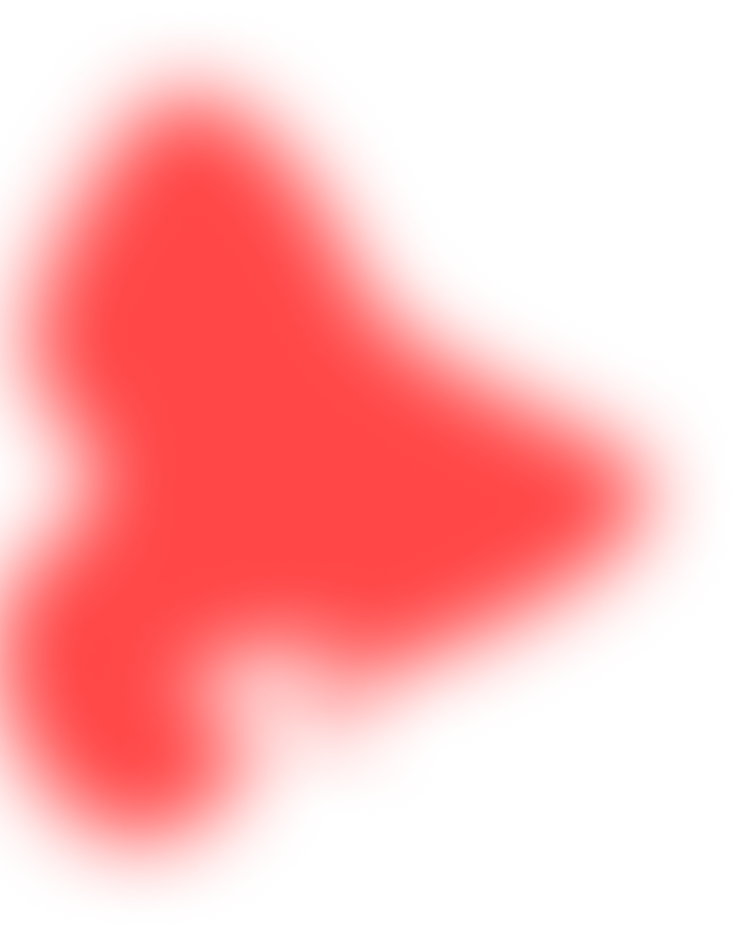
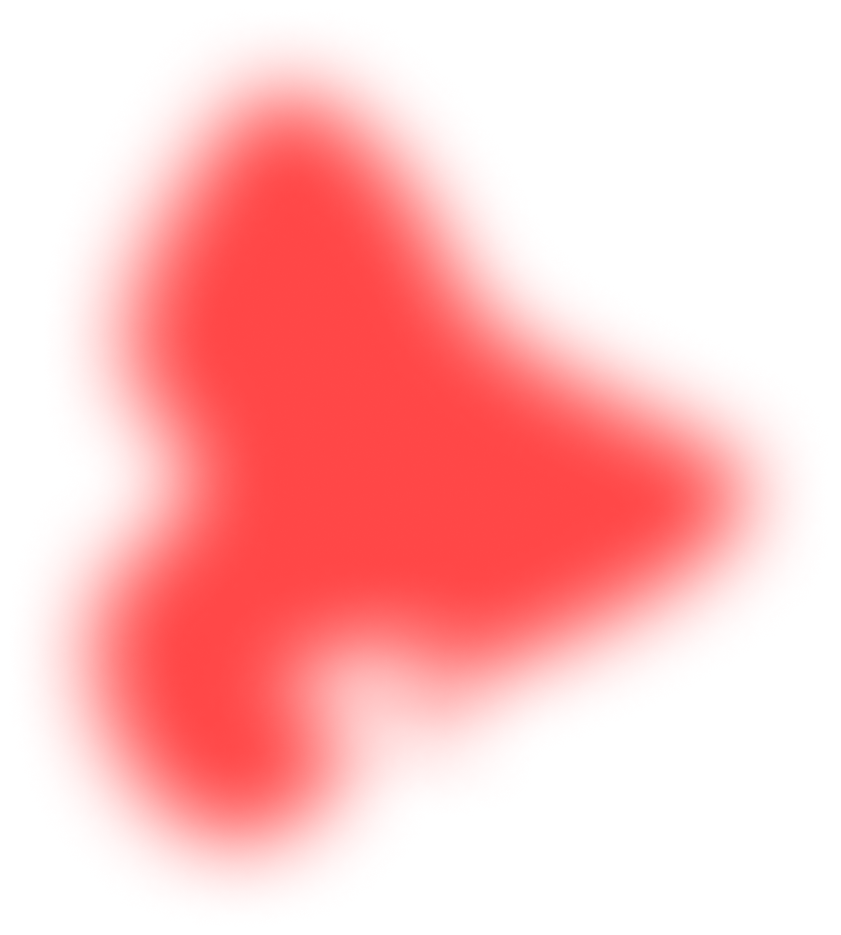
responsiveness

Changed region(s): [[0.0, 0.062, 0.712, 0.9305], [0.2167, 0.6513, 0.4643, 0.9305], [0.5572, 0.6513, 0.681, 0.7444]]

diff --git a/src/app/content-page/content-page.component.scss b/src/app/content-page/content-page.component.scss
@@ -37,31 +37,11 @@
 }
 
 
-.shade-portrait {
-    position: absolute;
-    right: 0px;
-    top: 1150px;
-    z-index: 15;
-}
 
-.shade-skills {
-    position: absolute;
-    left: 0px;
-    top: 3000px;
 
-}
 
-.shade-portfolio {
-    position: absolute;
-    left: 0px;
-    top: 3900px;
-}
 
-.shade-footer {
-    position: absolute;
-    left: -100px;
-    top: 5480px;
-}
+
 
 
 //<-------------------------------------------------- media queries ----------------------------------------------->
@@ -83,36 +63,11 @@
         margin: 0 16px;
     }
 
-    .shade-portrait {
-        position: absolute;
-        right: 0px;
-        top: 800px;
-        z-index: 6;
-        object-fit: contain;
-        width: 40%;
-    }
+
     
-    .shade-skills {
-        position: absolute;
-        left: 0px;
-        top: 3000px;
-        object-fit: contain;
-        width: 40%;   
-    }
+
     
-    .shade-portfolio {
-        position: absolute;
-        left: 0;
-        top: 4100px;
-        object-fit: contain;
-        width: 90%;
-    }
+
     
-    .shade-footer {
-        position: absolute;
-        left: -100px;
-        top: 5480px;
-        object-fit: contain;
-        width: 63%;
-    }
+
 }

diff --git a/src/app/about-me/about-me.component.scss b/src/app/about-me/about-me.component.scss
@@ -18,6 +18,13 @@
     z-index: -1;
 }
 
+.shade-portrait {
+    position: absolute;
+    right: 0px;
+    top: -500px;
+    z-index: 15;
+}
+
 
 .portrait {
     position: absolute;
@@ -29,7 +36,6 @@
 @media (max-width: 850px) {
 
     .about-me-content {
-        margin-top: 0px;
         position: static;
         flex-direction: column;
 
@@ -41,7 +47,27 @@
         z-index: 3;
     }
 
+    .shade-portrait {
+        position: absolute;
+        right: 0px;
+        top: 800px;
+        z-index: 6;
+        object-fit: contain;
+        width: 30%;
+    }
+
     .portrait{
         display: none;
+    }
+}
+
+@media (max-width: 850px) and (min-height: 850px) {
+    .contrast-arc-blue {
+        margin-top: -118px;
+    }
+
+    .shade-portrait {
+        width: 30%;
+        top: 1000px;
     }
 }

diff --git a/src/app/footer/footer.component.scss b/src/app/footer/footer.component.scss
@@ -9,6 +9,13 @@
     justify-content: center;
 }
 
+.shade-footer {
+    position: absolute;
+    top: -685px;
+    left: -16px;
+    transform: scale(0.95);
+}
+
 .footer-container {
     display: flex;
     align-items: center;
@@ -62,6 +69,15 @@
         right: 0;
     }
 
+    .shade-footer {
+        position: absolute;
+        object-fit: contain;
+        transform: none;
+        top: -142px;
+        left: 0;
+        width: 30%;
+    }
+
     .footer-container {
         flex-direction: column;
         justify-content: center;
@@ -78,5 +94,11 @@
         left: 0;
         right: 0;
         text-align: center;
+    }
+}
+
+@media (max-width: 850px) and (min-height: 850px){
+    .shade-footer {
+        top: -295px;
     }
 }

diff --git a/src/app/portfolio/portfolio.component.scss b/src/app/portfolio/portfolio.component.scss
@@ -44,6 +44,13 @@
 
 }
 
+.shade-portfolio {
+    position: absolute;
+    right: 0;
+    top: 600px;
+    z-index: -1;
+}
+
 
 //<--------------------------------------------- media queries ----------------------------------------->
 
@@ -87,5 +94,20 @@
         &:nth-child(even){
             flex-direction: column;
         }
+    }
+
+    .shade-portfolio {
+        position: absolute;
+        top: 950px;
+        object-fit: contain;
+        width: 110%;
+        z-index: -1;
+    }
+}
+
+@media (max-width: 850px) and (min-height: 850px){
+    .shade-portfolio {
+        top: 1150px;
+        width: 90%;
     }
 }

diff --git a/src/app/my-skills/my-skills.component.scss b/src/app/my-skills/my-skills.component.scss
@@ -52,6 +52,12 @@
     z-index: 6;
 }
 
+.shade-skills {
+    position: absolute;
+    left: -16px;
+    top: 100px;
+}
+
 //<------------------------------------------- media queries ---------------------------------------->
 
 @media (max-width: 850px){
@@ -87,5 +93,20 @@
 
     .contact-btn-myskills {
         position: static;
+    }
+
+    .shade-skills {
+        position: absolute;
+        left: -16px;
+        top: 600px;
+        object-fit: contain;
+        width: 40%;
+        z-index: -1;   
+    }
+}
+
+@media (max-width: 850px) and (min-height: 850px){
+    .shade-skills {
+        top: 500px;
     }
 }

diff --git a/src/app/content-page/content-page.component.html b/src/app/content-page/content-page.component.html
@@ -1,9 +1,9 @@
 <div class="content">
 
-    <img class="shade-portrait" src="assets/img/background-design-elements/background-portrait.png">
-    <img class="shade-skills" src="assets/img/background-design-elements/background-skills.png">
-    <img class="shade-portfolio" src="assets/img/background-design-elements/background-portfolio.png">
-    <img class="shade-footer" src="assets/img/background-design-elements/background-footer.png">
+
+
+
+
 
 
     <app-header class="header"></app-header>

diff --git a/src/app/about-me/about-me.component.html b/src/app/about-me/about-me.component.html
@@ -1,6 +1,7 @@
 
 <div class="about-me-content">
     <img class="contrast-arc-blue" src="assets/img/background-design-elements/contrast-arc-blue.png" alt="">
+    <img class="shade-portrait" src="assets/img/background-design-elements/background-portrait.png">
     <app-about-me-info ></app-about-me-info>
     <app-portrait class="portrait"></app-portrait>
 </div>

diff --git a/src/app/contact/contact.component.scss b/src/app/contact/contact.component.scss
@@ -130,6 +130,7 @@ textarea {
         position: static;
         flex-direction: column;
         margin-top: 100px;
+        margin-bottom: 100px;
     }
 
     .header-and-text {
@@ -170,5 +171,6 @@ textarea {
     .checkbox-privacy-flex {
         width: 100vw;
         max-width: 100%;
+        justify-content: center;
     }
   }

diff --git a/src/app/portfolio/portfolio.component.html b/src/app/portfolio/portfolio.component.html
@@ -9,5 +9,6 @@
         <div class="projects">
             <app-project *ngFor="let project of projects; let i = index" [projectInfo]="project" class="project-container"></app-project>
         </div>
+        <img class="shade-portfolio" src="assets/img/background-design-elements/background-portfolio.png">
     </div>
 </div>

diff --git a/src/app/my-skills/my-skills.component.html b/src/app/my-skills/my-skills.component.html
@@ -12,5 +12,5 @@
         <p>I used the past 9 months to grow my Front-End Development skills. All the new things I learned allowed me to create variuos projects.</p>
     </div>
    
-
+    <img class="shade-skills" src="assets/img/background-design-elements/background-skills.png">
 </div>

diff --git a/src/app/footer/footer.component.html b/src/app/footer/footer.component.html
@@ -1,5 +1,5 @@
 <div class="footer-content">
-
+    <img class="shade-footer" src="assets/img/background-design-elements/background-footer.png">
     <div class="footer-container">
         <div class="header-and-legal">
             <h1>Leo</h1>

diff --git a/src/app/landingpage/landingpage.component.scss b/src/app/landingpage/landingpage.component.scss
@@ -35,7 +35,7 @@
         align-items: center;
         justify-content: center;
         position: absolute;
-        bottom: 128px;
+        bottom: 70px;
     }
 
     .contact-btn-landingpage {
